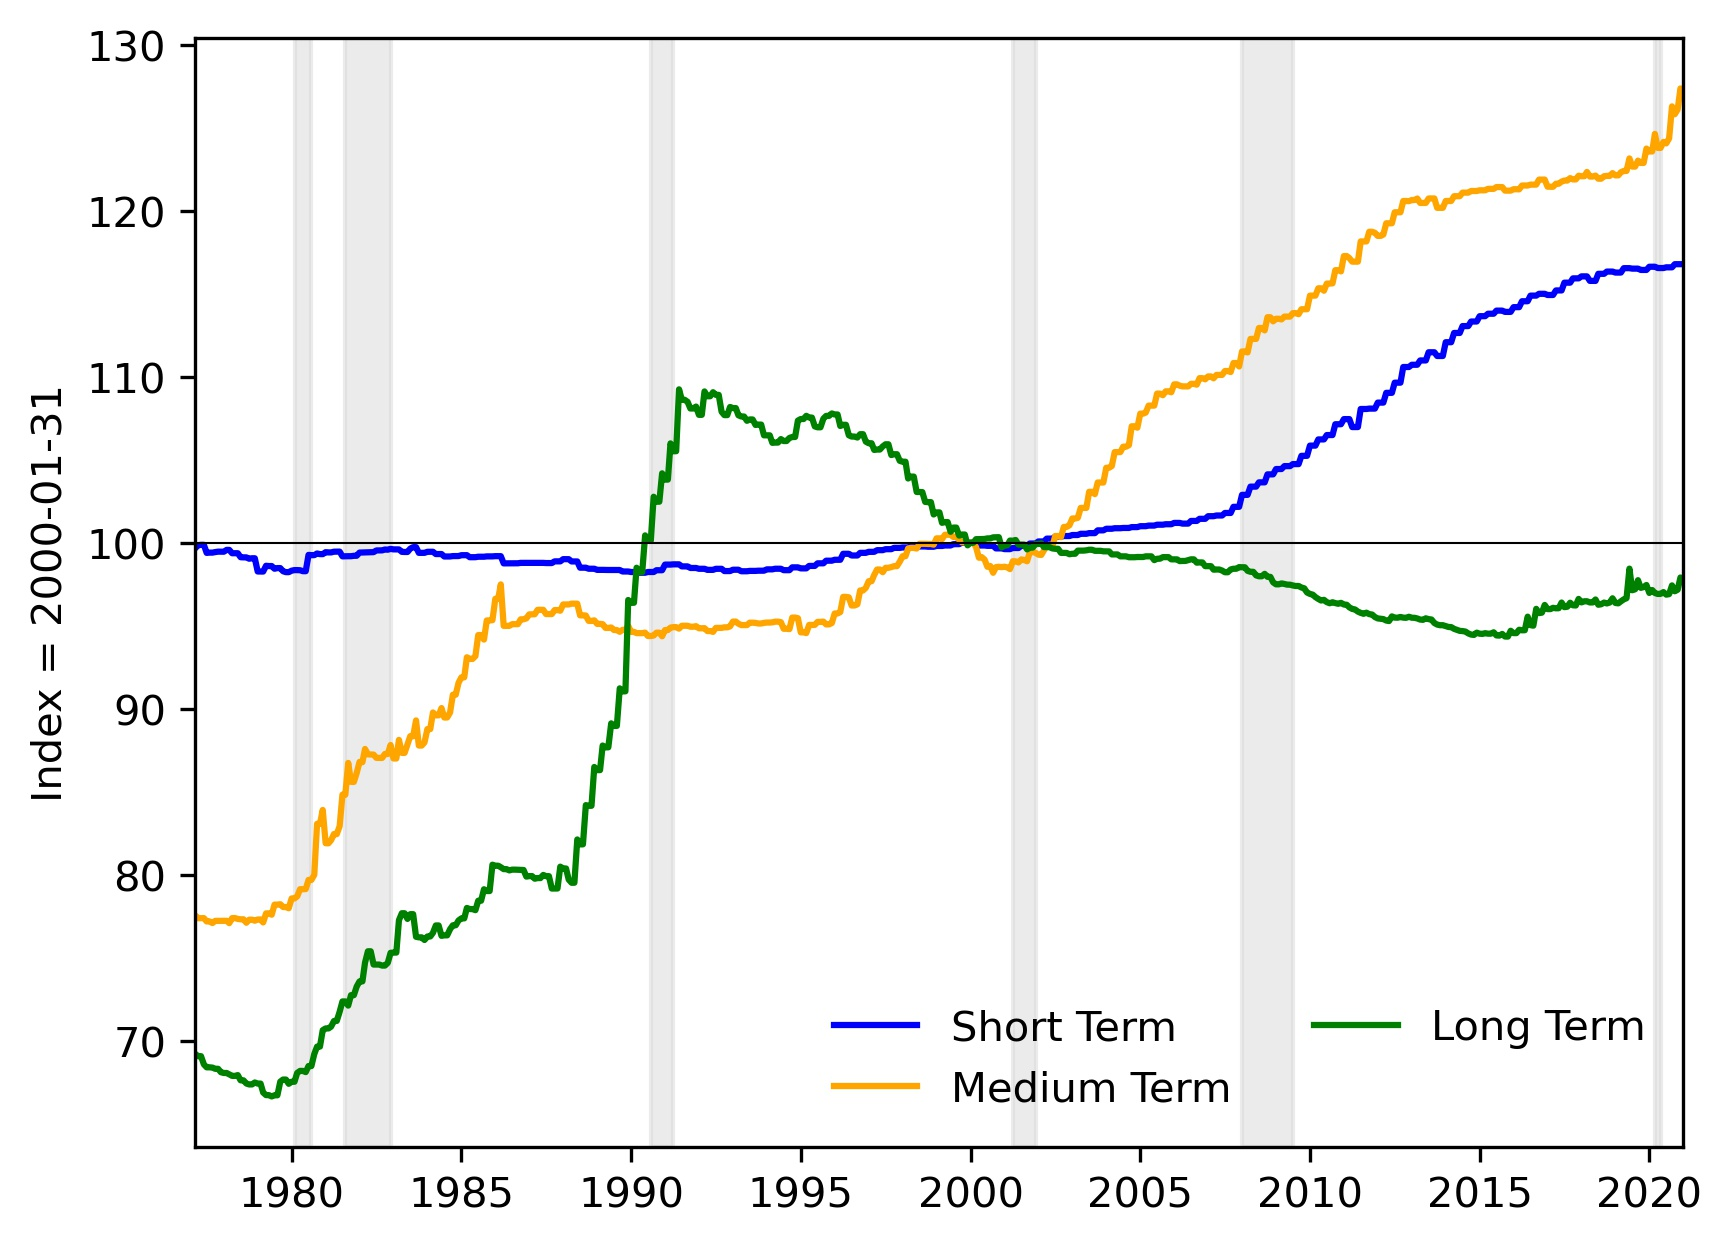
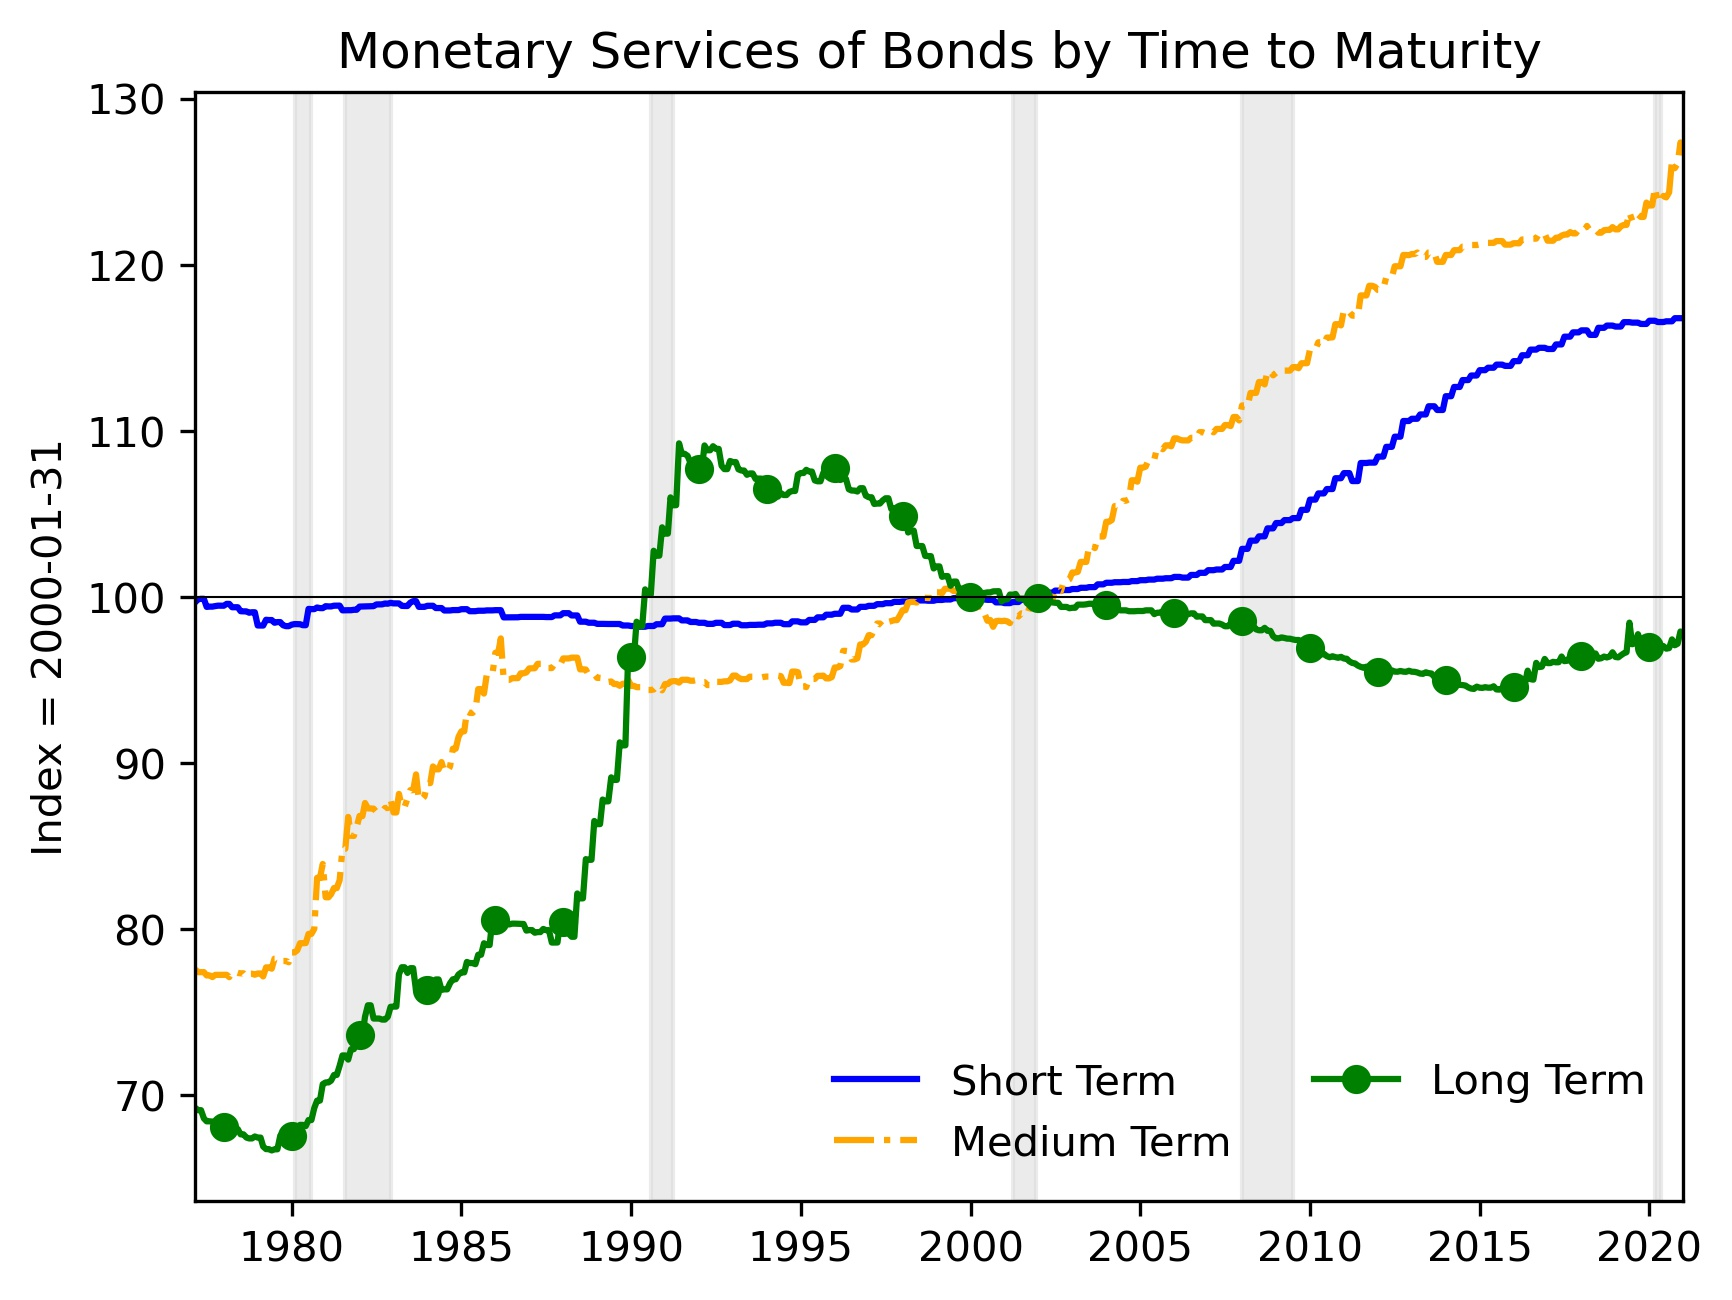
Adjusting the Plots Again

diff --git a/Analysis/Contribution_Analysis.py b/Analysis/Contribution_Analysis.py
@@ -2,6 +2,7 @@ import pandas as pd
 import numpy as np
 import matplotlib.pyplot as plt
 import matplotlib.ticker as mtick
+from matplotlib.lines import Line2D
 import datetime
 from datetime import timedelta
 # import statsmodels.api as sm
@@ -152,15 +153,13 @@ cumulative_negative = np.zeros(len(CONTR_MS_TYPE))
 
 ## Define colors for each series
 colors = ['blue', 'orange', 'green', 'red', 'purple']
+styles = ['-','-.','-','-','--']
+markers = [None, None, 'o', 'D', None]
 
 ## Determine bar width in terms of days
 days_width = 20
 width_in_days = timedelta(days=days_width)
 
-## CONTRIBUTION PLOT #####
-fig, ax = plt.subplots()
-
-## Plotting the recession dates
 ### Determine recession periods
 recs_start = rec_data[rec_data.USREC.diff() == 1].index
 recs_end = rec_data[rec_data.USREC.diff() == -1].index
@@ -169,35 +168,39 @@ recs_end = rec_data[rec_data.USREC.diff() == -1].index
 if len(recs_start) > len(recs_end):
     recs_end = recs_end.append(pd.Index([rec_data.index[-1]]))
 
-### Plotting the recession dates
-for rec_start, rec_end in zip(recs_start, recs_end):
-    ax.axvspan(rec_start, rec_end, color='0.85', alpha=0.5)
+
+## CONTRIBUTION PLOT #####
+# fig, ax = plt.subplots()
+
+# ### Plotting the recession dates
+# for rec_start, rec_end in zip(recs_start, recs_end):
+#     ax.axvspan(rec_start, rec_end, color='0.85', alpha=0.5)
 
 ## Looping through the columns and ploting them as stacked bars
-for i, column in enumerate(CONTR_MS_TYPE.columns):
-    color = colors[i]
-    ax.bar(CONTR_MS_TYPE.index, df_positive[column], bottom=cumulative_positive,  width=width_in_days, color=color, label=column)
-    ax.bar(CONTR_MS_TYPE.index, df_negative[column], bottom=cumulative_negative,  width=width_in_days, color=color)
+# for i, column in enumerate(CONTR_MS_TYPE.columns):
+#     color = colors[i]
+#     ax.bar(CONTR_MS_TYPE.index, df_positive[column], bottom=cumulative_positive,  width=width_in_days, color=color, label=column)
+#     ax.bar(CONTR_MS_TYPE.index, df_negative[column], bottom=cumulative_negative,  width=width_in_days, color=color)
     
-    # Update the cumulative sums
-    cumulative_positive += df_positive[column].fillna(0)
-    cumulative_negative += df_negative[column].fillna(0)
-## Add a horizontal line at y=0
-ax.axhline(0, color='black', linewidth=0.5)  
-## Add a line for the total: Not great for longer sample periods
-ax.plot(CONTR_MS_TYPE.index, CONTR_MS_TYPE.sum(axis=1), color='black', linewidth=1, label='Total')
-## Formatting
-ax.set_ylabel('Percentage Points')
-plt.xlim((start, end))
-### Automatically adjusting the y-axis limits
-plt.ylim((cumulative_negative.loc[start:end].min()-0.2, cumulative_positive.loc[start:end].max()+0.2)) 
-### Setting the x-axis ticks to include the minor ticks
-ax.set_xticks(CONTR_MS_TYPE.loc[start:end].index, minor=True)
-plt.xticks(rotation=45)
-plt.legend(loc=0, frameon=False, ncol=2)
-filename = 'Contribution_MS_'+str(start.year)+'-'+str(end.year)
-# plt.savefig(filename+'.jpg', format='jpg', dpi=300, bbox_inches='tight')
-plt.show()
+#     # Update the cumulative sums
+#     cumulative_positive += df_positive[column].fillna(0)
+#     cumulative_negative += df_negative[column].fillna(0)
+# ## Add a horizontal line at y=0
+# ax.axhline(0, color='black', linewidth=0.5)  
+# ## Add a line for the total: Not great for longer sample periods
+# ax.plot(CONTR_MS_TYPE.index, CONTR_MS_TYPE.sum(axis=1), color='black', linewidth=1, label='Total')
+# ## Formatting
+# ax.set_ylabel('Percentage Points')
+# plt.xlim((start, end))
+# ### Automatically adjusting the y-axis limits
+# plt.ylim((cumulative_negative.loc[start:end].min()-0.2, cumulative_positive.loc[start:end].max()+0.2)) 
+# ### Setting the x-axis ticks to include the minor ticks
+# ax.set_xticks(CONTR_MS_TYPE.loc[start:end].index, minor=True)
+# plt.xticks(rotation=45)
+# plt.legend(loc=0, frameon=False, ncol=2)
+# filename = 'Contribution_MS_'+str(start.year)+'-'+str(end.year)
+# # plt.savefig(filename+'.jpg', format='jpg', dpi=300, bbox_inches='tight')
+# plt.show()
 
 ## GROWTH RATE PLOTS #####
 
@@ -218,20 +221,20 @@ plt.show()
 
 ### Separate plots for each type of security
 
-for i, column in enumerate(GROWTH_MS_TYPE.columns):
-    fig, ax = plt.subplots()
-    ### Recession dates
-    for rec_start, rec_end in zip(recs_start, recs_end):
-        ax.axvspan(rec_start, rec_end, color='0.85', alpha=0.5)
-    ax.plot(GROWTH_MS_TYPE.index, GROWTH_MS_TYPE[column], label=column, color=colors[i])
-    ax.axhline(0, color='black', linewidth=0.5)
-    plt.xlim(datetime.datetime(1978,2,28), datetime.datetime(2020,12,31))
-    ax.set_ylabel('Percent')
-    ax.set_xlabel(None)
-    plt.legend(loc=0, frameon=False, ncol=2)
-    filename = 'GrowthRate_MS_'+column
-    plt.savefig(filename+'.jpg', format='jpg', dpi=300, bbox_inches='tight')
-    plt.show()
+# for i, column in enumerate(GROWTH_MS_TYPE.columns):
+#     fig, ax = plt.subplots()
+#     ### Recession dates
+#     for rec_start, rec_end in zip(recs_start, recs_end):
+#         ax.axvspan(rec_start, rec_end, color='0.85', alpha=0.5)
+#     ax.plot(GROWTH_MS_TYPE.index, GROWTH_MS_TYPE[column], label=column, color=colors[i])
+#     ax.axhline(0, color='black', linewidth=0.5)
+#     plt.xlim(datetime.datetime(1978,2,28), datetime.datetime(2020,12,31))
+#     ax.set_ylabel('Percent')
+#     ax.set_xlabel(None)
+#     plt.legend(loc=0, frameon=False, ncol=2)
+#     filename = 'GrowthRate_MS_'+column
+#     plt.savefig(filename+'.jpg', format='jpg', dpi=300, bbox_inches='tight')
+#     plt.show()
 
 ## INDEX LEVEL PLOTS #####
 fig, ax = plt.subplots()
@@ -239,12 +242,16 @@ fig, ax = plt.subplots()
 for rec_start, rec_end in zip(recs_start, recs_end):
     ax.axvspan(rec_start, rec_end, color='0.85', alpha=0.5)
 for i, column in enumerate(INDEX_MS_TYPE.columns):
-    ax.plot(INDEX_MS_TYPE.index, INDEX_MS_TYPE[column], label=column, color=colors[i])
+    ax.plot(INDEX_MS_TYPE.index, INDEX_MS_TYPE[column], label=column, color=colors[i], linestyle=styles[i], marker=None)
+    ax.plot(INDEX_MS_TYPE.index[10::24], INDEX_MS_TYPE[column][10::24], color=colors[i], linestyle='', marker=markers[i])
 ax.axhline(100, color='black', linewidth=0.5)
 plt.xlim(datetime.datetime(1977,2,28), datetime.datetime(2020,12,31))
 ax.set_ylabel('Index = ' + index_start)
 ax.set_xlabel(None)
-plt.legend(loc=0, frameon=False, ncol=2)
+# Create a custom legend
+custom_lines = [Line2D([0], [0], color=colors[i], linestyle=styles[i], marker=markers[i]) for i in range(len(INDEX_MS_TYPE.columns))]
+ax.legend(custom_lines, INDEX_MS_TYPE.columns, loc=0, frameon=False, ncol=2)
+# plt.legend(loc=0, frameon=False, ncol=2)
 filename = 'Index_MS_Type'
 plt.savefig(filename+'.jpg', format='jpg', dpi=300, bbox_inches='tight')
 plt.show()
@@ -255,12 +262,16 @@ fig, ax = plt.subplots()
 for rec_start, rec_end in zip(recs_start, recs_end):
     ax.axvspan(rec_start, rec_end, color='0.85', alpha=0.5)
 for i, column in enumerate(INDEX_MS_BOND.columns):
-    ax.plot(INDEX_MS_BOND.index, INDEX_MS_BOND[column], label=column, color=colors[i])
+    ax.plot(INDEX_MS_BOND.index, INDEX_MS_BOND[column], label=column, color=colors[i], linestyle=styles[i], marker=None)
+    ax.plot(INDEX_MS_BOND.index[10::24], INDEX_MS_BOND[column][10::24], color=colors[i], linestyle='', marker=markers[i])
 ax.axhline(100, color='black', linewidth=0.5)
 plt.xlim(datetime.datetime(1977,2,28), datetime.datetime(2020,12,31))
 ax.set_ylabel('Index = ' + index_start)
 ax.set_xlabel(None)
-plt.legend(loc=0, frameon=False, ncol=2)
+# Create a custom legend
+custom_lines = [Line2D([0], [0], color=colors[i], linestyle=styles[i], marker=markers[i]) for i in range(len(INDEX_MS_BOND.columns))]
+ax.legend(custom_lines, INDEX_MS_BOND.columns, loc=0, frameon=False, ncol=2)
+ax.set_title('Monetary Services of Bonds by Time to Maturity')
 filename = 'Index_MS_Bond'
 plt.savefig(filename+'.jpg', format='jpg', dpi=300, bbox_inches='tight')
 plt.show()
